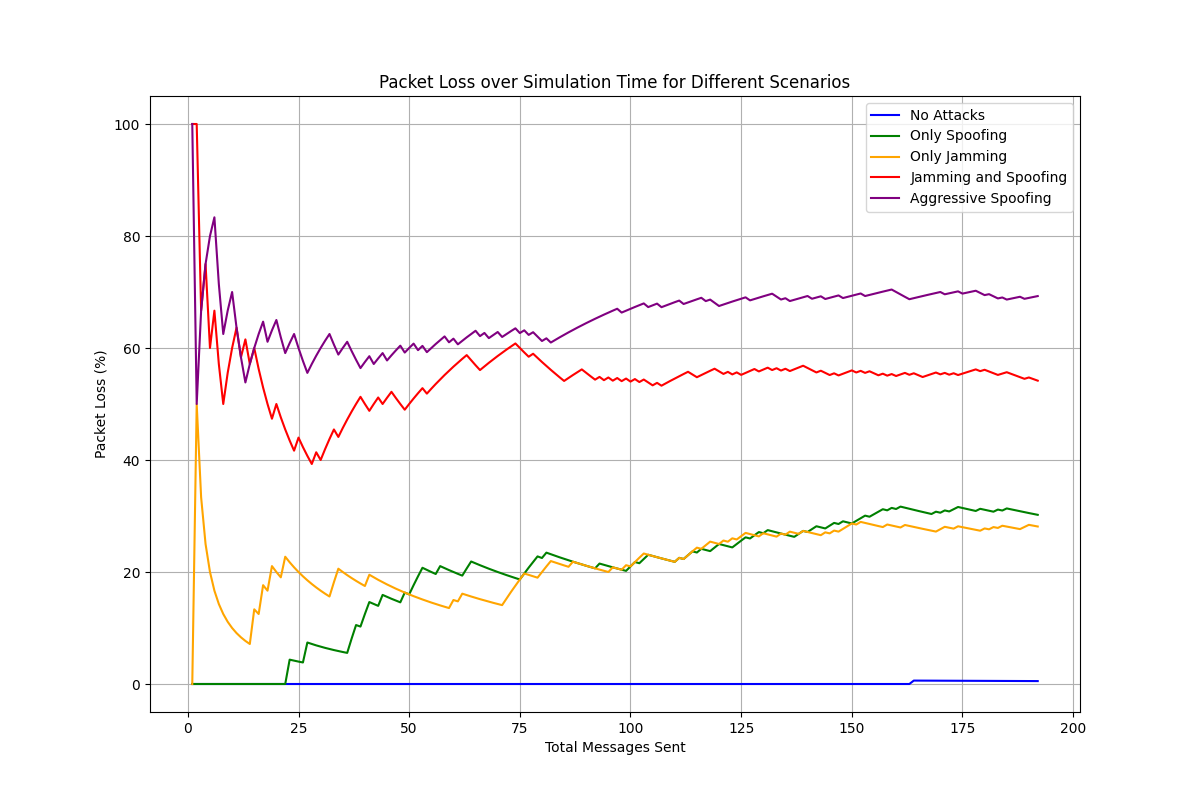
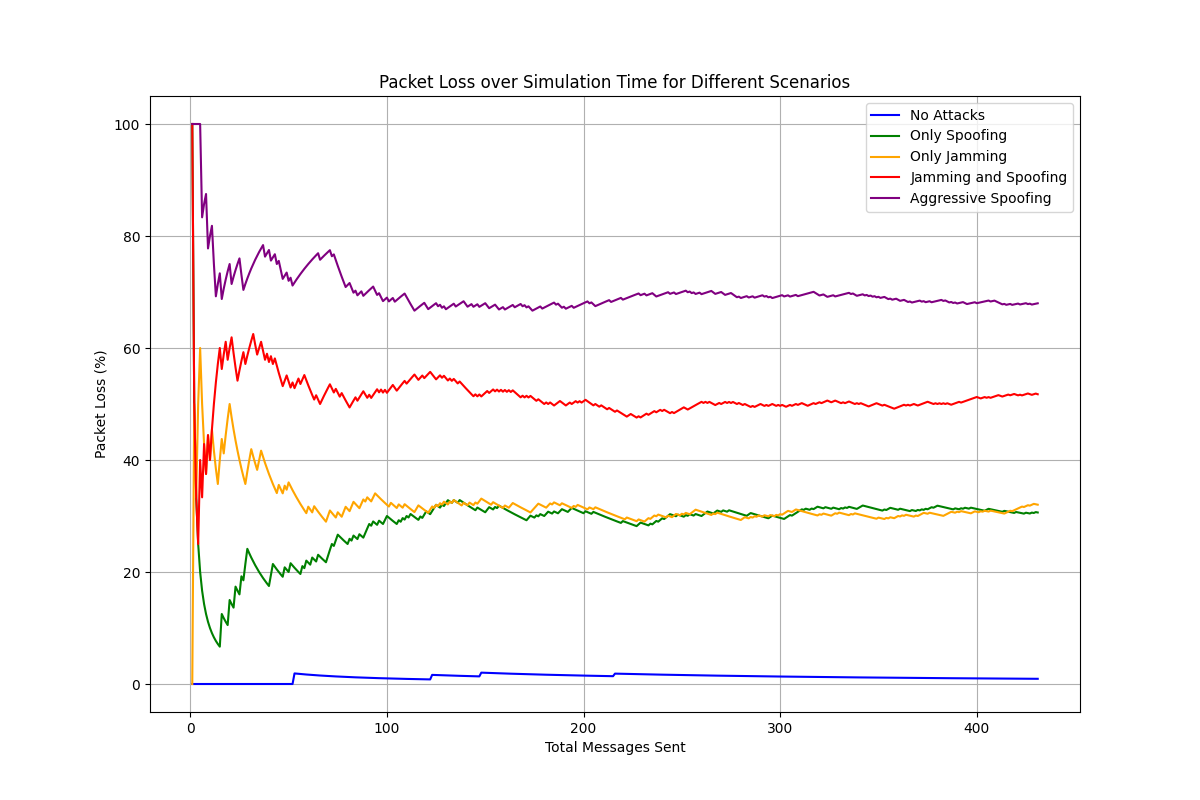
update the classes with some resukts

diff --git a/n_scen_stat.py b/n_scen_stat.py
@@ -18,8 +18,8 @@ center_lat, center_lon = 38.8977, -77.0365  # White House location
 gcs = GCS(center_lat, center_lon)
 gcs_pos = (center_lat, center_lon)
 
-# Create a RouteGenerator instance
-route_gen = RouteGenerator(center_lat, center_lon, num_routes=1, waypoints_per_route=5, max_offset=0.02)
+# Create a RouteGenerator instancz
+route_gen = RouteGenerator(center_lat, center_lon, num_routes=2, waypoints_per_route=5, max_offset=0.02)
 routes = route_gen.generate_routes()
 
 # Function to initialize drones
